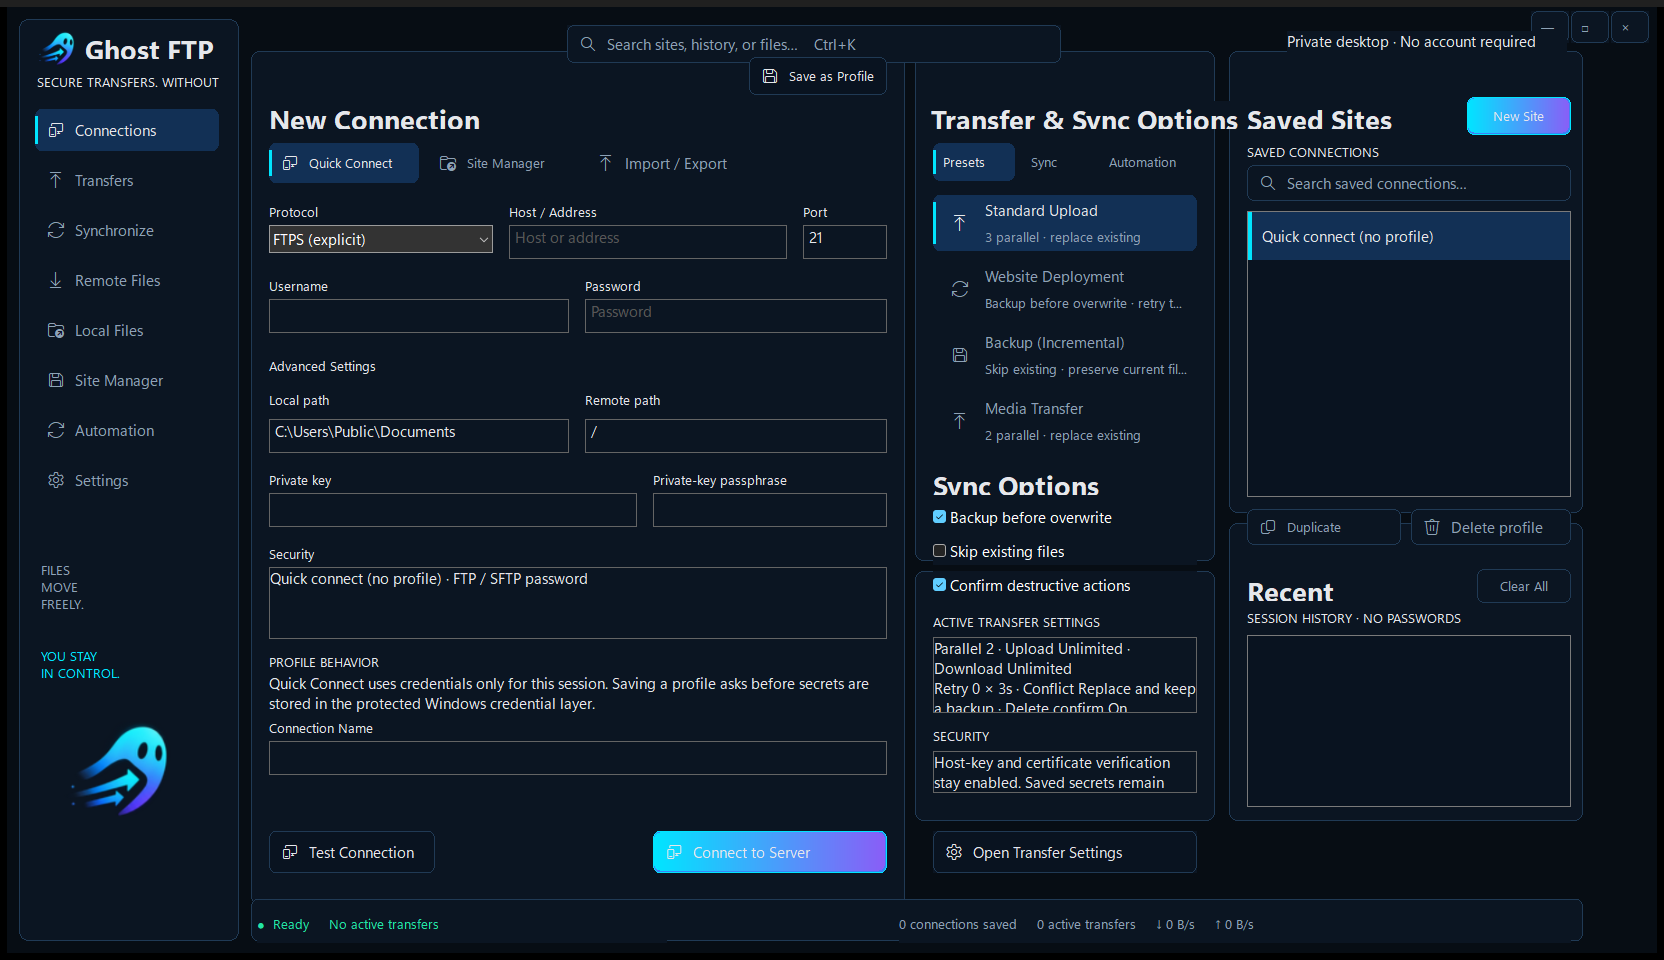
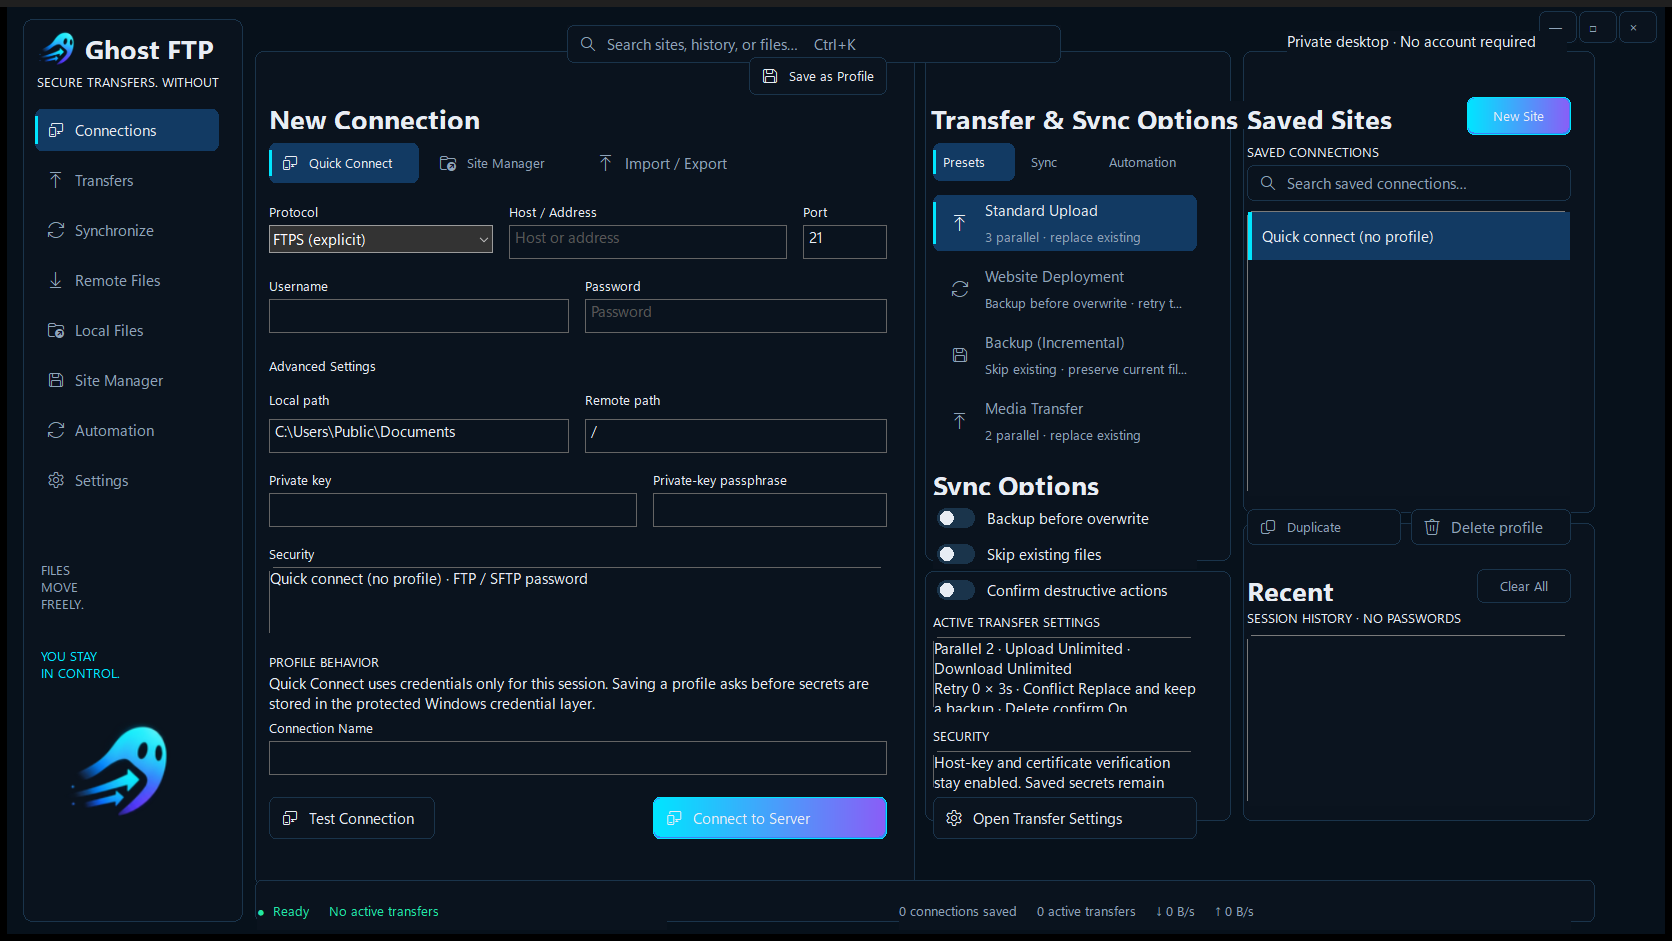
Refresh Ghost FTP 0.6.0 generated release assets

diff --git a/internal/desktop/button_draw_windows.go b/internal/desktop/button_draw_windows.go
@@ -218,8 +218,12 @@ func (a *app) drawToggleButton(dis *drawItemStruct, visual buttonVisual, disable
 	roundRect.Call(dis.HDC, uintptr(track.Left), uintptr(track.Top), uintptr(track.Right), uintptr(track.Bottom), uintptr(a.scale(18)), uintptr(a.scale(18)))
 	selectObject.Call(dis.HDC, oldBrush)
 	selectObject.Call(dis.HDC, oldPen)
-	if trackBrush != 0 { deleteObject.Call(trackBrush) }
-	if trackPen != 0 { deleteObject.Call(trackPen) }
+	if trackBrush != 0 {
+		deleteObject.Call(trackBrush)
+	}
+	if trackPen != 0 {
+		deleteObject.Call(trackPen)
+	}
 
 	knob := track
 	knob.Top += int32(a.scale(3))
@@ -232,7 +236,9 @@ func (a *app) drawToggleButton(dis *drawItemStruct, visual buttonVisual, disable
 	}
 	knob.Right = knob.Left + knobW
 	knobColor := textColor()
-	if disabled { knobColor = mutedColor() }
+	if disabled {
+		knobColor = mutedColor()
+	}
 	knobBrush, _, _ := createSolidBrush.Call(knobColor)
 	knobPen, _, _ := createPen.Call(psSolid, 1, knobColor)
 	oldBrush, _, _ = selectObject.Call(dis.HDC, knobBrush)
@@ -240,21 +246,29 @@ func (a *app) drawToggleButton(dis *drawItemStruct, visual buttonVisual, disable
 	roundRect.Call(dis.HDC, uintptr(knob.Left), uintptr(knob.Top), uintptr(knob.Right), uintptr(knob.Bottom), uintptr(a.scale(14)), uintptr(a.scale(14)))
 	selectObject.Call(dis.HDC, oldBrush)
 	selectObject.Call(dis.HDC, oldPen)
-	if knobBrush != 0 { deleteObject.Call(knobBrush) }
-	if knobPen != 0 { deleteObject.Call(knobPen) }
+	if knobBrush != 0 {
+		deleteObject.Call(knobBrush)
+	}
+	if knobPen != 0 {
+		deleteObject.Call(knobPen)
+	}
 
 	labelRect := r
 	labelRect.Left += int32(a.scale(54))
 	labelRect.Right -= int32(a.scale(4))
 	fg := textColor()
-	if disabled { fg = mutedColor() }
+	if disabled {
+		fg = mutedColor()
+	}
 	setTextColor.Call(dis.HDC, fg)
 	oldFont := uintptr(0)
 	if a.font != 0 {
 		oldFont, _, _ = selectObject.Call(dis.HDC, a.font)
 	}
 	drawText(dis.HDC, visual.Label, &labelRect, dtLeft|dtVCenter|dtSingleLine|dtNoPrefix|dtEndEllipsis)
-	if oldFont != 0 { selectObject.Call(dis.HDC, oldFont) }
+	if oldFont != 0 {
+		selectObject.Call(dis.HDC, oldFont)
+	}
 }
 
 func (a *app) drawButtonBadge(hdc uintptr, content rect, count int, disabled bool) {

diff --git a/internal/desktop/windows.go b/internal/desktop/windows.go
@@ -18,12 +18,12 @@ import (
 )
 
 type app struct {
-	hwnd                                             uintptr
-	engine                                           *api.Engine
-	version                                          string
+	hwnd                                                          uintptr
+	engine                                                        *api.Engine
+	version                                                       string
 	font, titleFont, sectionFont, smallFont, iconFont, scriptFont uintptr
-	dpi                                              uint32
-	brush, panelBrush                                uintptr
+	dpi                                                           uint32
+	brush, panelBrush                                             uintptr
 
 	brandTitle, brandFTP, brandSubtitle, connectionBadge, sectionLocal, sectionRemote, sectionTransfers               uintptr
 	profilesCombo, languageCombo, saveProfile, removeProfile, settingsBtn, aboutBtn                                   uintptr

diff --git a/internal/desktop/reference_paint_windows.go b/internal/desktop/reference_paint_windows.go
@@ -36,9 +36,9 @@ func (a *app) drawReferenceDivider(hdc uintptr, x, y, width int, color uintptr) 
 		return
 	}
 	line := rect{
-		Left: int32(a.scale(x)),
-		Top: int32(a.scale(y)),
-		Right: int32(a.scale(x + width)),
+		Left:   int32(a.scale(x)),
+		Top:    int32(a.scale(y)),
+		Right:  int32(a.scale(x + width)),
 		Bottom: int32(a.scale(y + 1)),
 	}
 	brush, _, _ := createSolidBrush.Call(color)
